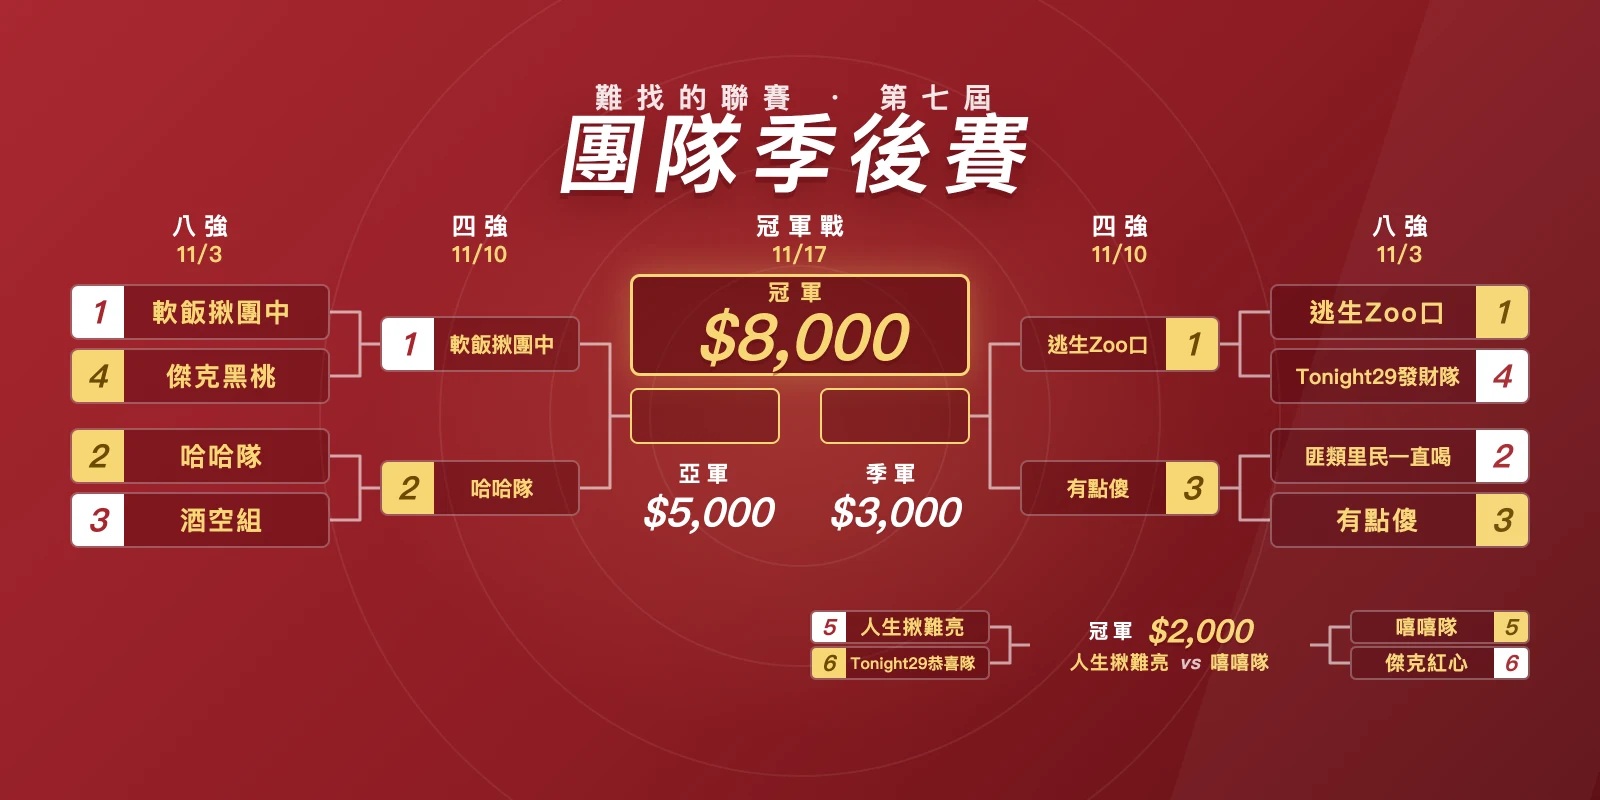
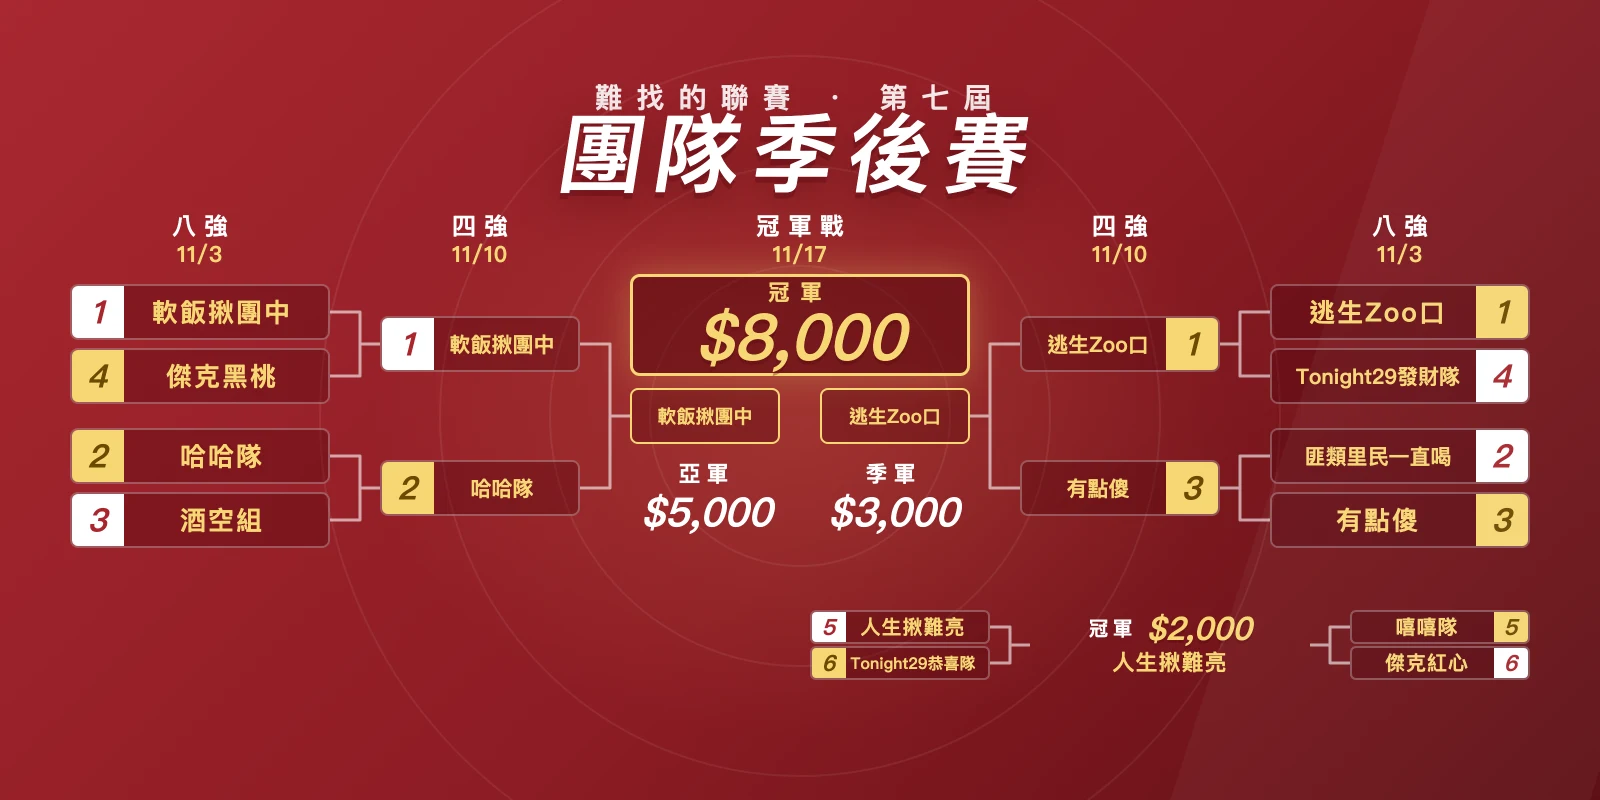
季後賽四強結果：更新賽制圖、冠軍戰／季軍戰與戰報

Changed region(s): [[0.6562, 0.75, 0.8125, 0.8438], [0.5312, 0.5, 0.5938, 0.5312], [0.4062, 0.5, 0.4688, 0.5312]]

diff --git a/pages/news.html b/pages/news.html
@@ -1035,10 +1035,42 @@
             <div class="news-content" id="newsContent">
                 <div class="news-item collapsible">
                     <div class="news-header expanded">
+                        <div class="news-date">2026/11/12</div>
+                        <div class="news-title">🎯 第七屆四強戰報：冠軍戰是全季唯二沒輸過的兩隊，11/17 必有一隊吃下本屆第一敗</div>
+                    </div>
+                    <div class="news-text expanded">
+                        各位鏢友，11/10 四強（G67~G69）打完，冠軍戰的組合出爐了——<strong>軟飯揪團中 vs 逃生Zoo口</strong>。<br>
+                        這兩隊有個共通點：<strong>打到現在都還沒輸過。</strong>軟飯揪團中例行賽 10勝0敗，季後賽兩場再贏，<strong>12 戰全勝</strong>；逃生Zoo口例行賽 9勝1和、季後賽兩勝，<strong>12 戰 11勝1和</strong>，那一和是第五週對有點傻。他們分屬兩組，整季一次都沒碰過面。<br>
+                        也就是說，<strong>11/17 這場打完，其中一隊會吞下本屆第一敗</strong>。而例行賽他們的總分是 257 比 258，差 1 分。<br><br>
+
+                        <strong>🍚 軟飯揪團中 22:14，這一輪最接近的一場</strong><br>
+                        G67 主場迎戰哈哈隊，<strong>比賽成績只有 16:14</strong>。整季 12 場裡，只有開幕戰 G01（15:15，靠飲酒加成才贏）比這更膠著，其餘十場的比賽成績分差全都在 6 分以上。加上勝場與 5 分飲酒加成才拉開成 22:14。<br>
+                        樂源小宇 4局3勝最佳，Connie、瓜瓜、阿旮、大頭、藍鳥各 2 勝，<strong>九個人輪番上陣但沒有人超過 3 勝</strong>，整場靠平均分配咬下來。哈哈隊這邊浩子 6局4勝領軍，黃渤、華華各 6局3勝，Mark 4局2勝，打得並不差。<br><br>
+
+                        <strong>💯 逃生Zoo口 26:10，小倫打滿 8 局</strong><br>
+                        G68 主場對有點傻，逃生Zoo口 <strong>20:10</strong> 拿下，總分 26:10。<strong>小倫打滿 8 局拿 5 勝</strong>，小喬 6局4勝、乳來 7局4勝，<strong>阿廷 3局3勝、晨晨、隼、Molly 各出賽一局全收</strong>，板凳照樣有貢獻。<br>
+                        有點傻八強扳倒掉鏢組第二的那股氣勢沒能延續，小飛、邱昱各打滿 7 局拿 3 勝，Ben 2局2勝，但十個人上場有五個掛零。他們接下來打季軍戰。<br><br>
+
+                        <strong>🍻 人生揪難亮作客拿下第二段冠軍</strong><br>
+                        G69 在 Vivi Bar，人生揪難亮<strong>比賽成績 18:12</strong> 大勝嘻嘻隊，不過嘻嘻隊有 5 分飲酒加成，最終總分 <strong>19:17</strong>，只差 2 分。<strong>第二段冠軍 NT$2,000 由人生揪難亮拿下。</strong><br>
+                        小蘇 7局5勝、<strong>蘇ㄟ 3局3勝</strong>、宗燁 5局3勝，宜竫、亮亮各 2 勝。嘻嘻隊 Kaman 4局3勝、小佑 5局3勝，但首輪打爆傑克紅心的火力沒有再現。<br>
+                        人生揪難亮例行賽是掉鏢組第五、3勝7敗，季後賽第二段兩場全勝收下獎金。<br><br>
+
+                        <strong>📋 11/17 最後一天</strong><br>
+                        主場一樣看上一輪的季後賽勝分。<br>
+                        <strong>冠軍戰　軟飯揪團中（22）vs 逃生Zoo口（26）</strong>　→ 逃生Zoo口主場．<strong>逃生入口Bar</strong>　冠軍 NT$8,000／亞軍 NT$5,000<br>
+                        <strong>季軍戰　哈哈隊（14）vs 有點傻（10）</strong>　→ 哈哈隊主場．<strong>Vivi Bar</strong>　季軍 NT$3,000<br>
+                        同一天之後，第七屆團隊賽就結束了。個人季後賽 <strong>11/24</strong> 在逃生入口Bar。<br><br>
+
+                        <em>總結：一支 12 戰全勝，一支 12 戰不敗，例行賽差 1 分、整季沒交手過，11/17 在逃生入口Bar 分勝負。🎯🍺</em>
+                    </div>
+                </div>
+                <div class="news-item collapsible">
+                    <div class="news-header">
                         <div class="news-date">2026/11/4</div>
                         <div class="news-title">🎯 第七屆季後賽八強戰報：四強剩一支掉鏢組隊伍，例行賽 3 勝的有點傻客場扳倒第二種子</div>
                     </div>
-                    <div class="news-text expanded">
+                    <div class="news-text">
                         各位鏢友，11/3 季後賽第一輪（G61~G66）打完。四強名單出爐——<strong>軟飯揪團中、哈哈隊、逃生Zoo口、有點傻</strong>。看出哪裡不對勁了嗎？<strong>四強裡有三隊來自靶外組，掉鏢組只剩軟飯揪團中一支。</strong>例行賽掉鏢組第二、第三、第四名全在第一輪出局。<br><br>
 
                         <strong>🃏 有點傻 20:16，例行賽 3 勝的隊伍客場踢掉第二種子</strong><br>

diff --git a/pages/s7_playoffs.html b/pages/s7_playoffs.html
@@ -207,7 +207,10 @@
     <div class="bracket-hint">點圖可放大</div>
   </div>
 
-  <div class="section-title" style="font-size:12px;">🔥 四強對戰 (11/10)</div>
+  <div class="section-title" style="font-size:12px;">🏆 冠軍戰 ‧ 季軍戰 (11/17)</div>
+  <div class="tie-list" id="final-list"></div>
+
+  <div class="section-title" style="font-size:12px;">🔥 四強結果 (11/10)</div>
   <div class="tie-list" id="sf-list"></div>
 
   <div class="section-title" style="font-size:12px;">⚔ 八強結果 (11/3)</div>
@@ -224,6 +227,9 @@
 
   <div class="section-title" style="font-size:12px;color:#888;">🍺 第二段決賽 (11/10)</div>
   <div class="tie-list" id="lf-list"></div>
+  <div class="note-box" style="margin-top:10px;font-size:11px;">
+    第二段冠軍：<strong>人生揪難亮</strong>　NT$ 2,000
+  </div>
 
   <div class="section-title" style="font-size:12px;color:#888;">🍺 第二段首輪結果 (11/3)</div>
   <div class="tie-list" id="lower-list"></div>
@@ -469,7 +475,11 @@ const R1 = {
     QF3: { a: ['b',1], b: ['d',4], sa: 22, sb: 14 },   // G63 逃生Zoo口 vs Tonight29發財隊
     QF4: { a: ['d',2], b: ['b',3], sa: 16, sb: 20 },   // G64 匪類里民一直喝 vs 有點傻
     L1:  { a: ['d',5], b: ['b',6], sa: 24, sb: 12 },   // G65 人生揪難亮 vs Tonight29恭喜隊
-    L2:  { a: ['b',5], b: ['d',6], sa: 27, sb:  9, host: '傑克紅心' } // G66 嘻嘻隊 vs 傑克紅心
+    L2:  { a: ['b',5], b: ['d',6], sa: 27, sb:  9, host: '傑克紅心' }, // G66 嘻嘻隊 vs 傑克紅心
+    // 四強起的主場是上一輪勝分推出來的，不能再用例行賽總分判斷，所以直接寫明
+    SF1: { a: ['d',1], b: ['b',2], sa: 22, sb: 14, host: '軟飯揪團中' }, // G67 軟飯揪團中 vs 哈哈隊
+    SF2: { a: ['b',1], b: ['b',3], sa: 26, sb: 10, host: '逃生Zoo口' },  // G68 逃生Zoo口 vs 有點傻
+    LF:  { a: ['d',5], b: ['b',5], sa: 19, sb: 17, host: '嘻嘻隊' }      // G69 人生揪難亮 vs 嘻嘻隊
 };
 
 // 已打完的對戰：中間改放比分，勝隊金字、敗隊淡化
@@ -488,15 +498,19 @@ const played = (label, key) => {
     </div>`;
 };
 
-// 晉級者：回傳 [組別, 種子, 這一輪拿到的分數]
+// 晉級者／被淘汰者：回傳 [組別, 種子, 這一輪拿到的分數]
 const winnerOf = key => {
     const r = R1[key];
     return r.sa >= r.sb ? [r.a[0], r.a[1], r.sa] : [r.b[0], r.b[1], r.sb];
 };
+const loserOf = key => {
+    const r = R1[key];
+    return r.sa >= r.sb ? [r.b[0], r.b[1], r.sb] : [r.a[0], r.a[1], r.sa];
+};
 
 // 四強起的主場＝上一輪季後賽勝分較高者；同分時看上一場飲酒點數（目前沒出現同分）
-const nextTie = (label, k1, k2) => {
-    const [g1, s1, p1] = winnerOf(k1), [g2, s2, p2] = winnerOf(k2);
+const pairTie = (label, X, Y) => {
+    const [g1, s1, p1] = X, [g2, s2, p2] = Y;
     const A = FINAL[g1][s1 - 1], B = FINAL[g2][s2 - 1];
     const host = (p1 >= p2 ? A : B)[0];
     return `<div class="po-match">
@@ -506,6 +520,7 @@ const nextTie = (label, k1, k2) => {
         <div class="po-vs">vs</div>${teamCell(g2, s2, 'r', B[0] === host)}</div>
     </div>`;
 };
+const nextTie = (label, k1, k2) => pairTie(label, winnerOf(k1), winnerOf(k2));
 
 document.getElementById('tie-list').innerHTML =
       played('QF1', 'QF1') + played('QF2', 'QF2')
@@ -513,8 +528,11 @@ document.getElementById('tie-list').innerHTML =
 document.getElementById('lower-list').innerHTML =
       played('L1', 'L1') + played('L2', 'L2');
 document.getElementById('sf-list').innerHTML =
-      nextTie('SF1', 'QF1', 'QF2') + nextTie('SF2', 'QF3', 'QF4');
-document.getElementById('lf-list').innerHTML = nextTie('LF', 'L1', 'L2');
+      played('SF1', 'SF1') + played('SF2', 'SF2');
+document.getElementById('lf-list').innerHTML = played('LF', 'LF');
+document.getElementById('final-list').innerHTML =
+      nextTie('冠軍戰', 'SF1', 'SF2')
+    + pairTie('季軍戰', loserOf('SF1'), loserOf('SF2'));
 
 for (const grp of ['d', 'b']) {
     document.getElementById('tbl-' + grp).innerHTML =

diff --git a/pages/s7_playoffs_banner.html b/pages/s7_playoffs_banner.html
@@ -90,6 +90,7 @@
   .sf { width: 200px; }
   .sf span { font-size: 21px; letter-spacing: 0; }
   .fin { width: 150px; border: 2px solid var(--gold); background: rgba(70, 0, 8, 0.3); }
+  .fin span { font-size: 19px; letter-spacing: 0; padding: 0; }
 
   /* ---------- 中央獎金 ---------- */
   .champ {
@@ -115,7 +116,7 @@
     display: flex; flex-direction: column; align-items: center; justify-content: center; gap: 2px; }
   .lower .lrow { display: flex; align-items: center; justify-content: center; gap: 10px; }
   .lower .lmatch { font-size: 19px; font-weight: 700; letter-spacing: 1px; color: var(--gold); }
-  .lower .lmatch em { font-style: italic; font-weight: 900; color: #fff; opacity: 0.75; padding: 0 2px; }
+  .lower .lmatch.lwin { font-size: 22px; font-weight: 900; }
   .lower .lbl { font-size: 20px; font-weight: 700; letter-spacing: 4px; }
   .lower .amt { font-size: 32px; font-weight: 900; font-style: italic; line-height: 1; color: var(--gold);
     text-shadow: 0 3px 0 rgba(90, 10, 16, 0.35); }
@@ -175,8 +176,8 @@
 <!-- 冠軍戰 -->
 <div class="round c">冠軍戰<span>11/17</span></div>
 <div class="champ"><small>冠軍</small><b>$8,000</b></div>
-<div class="slot fin" style="left:630px; top:388px"></div>
-<div class="slot fin" style="left:820px; top:388px"></div>
+<div class="slot fin named" style="left:630px; top:388px"><span>軟飯揪團中</span></div>
+<div class="slot fin named" style="left:820px; top:388px"><span>逃生Zoo口</span></div>
 
 <div class="podium">
   <div><small>亞軍</small><b>$5,000</b></div>
@@ -190,7 +191,7 @@
 <div class="slot mini r a named" style="left:1350px; top:646px"><i>6</i><span>傑克紅心</span></div>
 <div class="lower">
   <div class="lrow"><div class="lbl">冠軍</div><div class="amt">$2,000</div></div>
-  <div class="lmatch">人生揪難亮 <em>vs</em> 嘻嘻隊</div>
+  <div class="lmatch lwin">人生揪難亮</div>
 </div>
 
 </body>

diff --git a/index.html b/index.html
@@ -319,7 +319,7 @@
     <!-- 季後賽詳細資訊模態窗口 -->
     <div id="playoffsModal" class="match-modal" onclick="if(event.target === this) { closePlayoffsModal(); }">
         <div class="match-modal-content">
-            <iframe src="pages/s7_playoffs.html?v=20261104" class="match-iframe"></iframe>
+            <iframe src="pages/s7_playoffs.html?v=20261112" class="match-iframe"></iframe>
         </div>
     </div>
 
